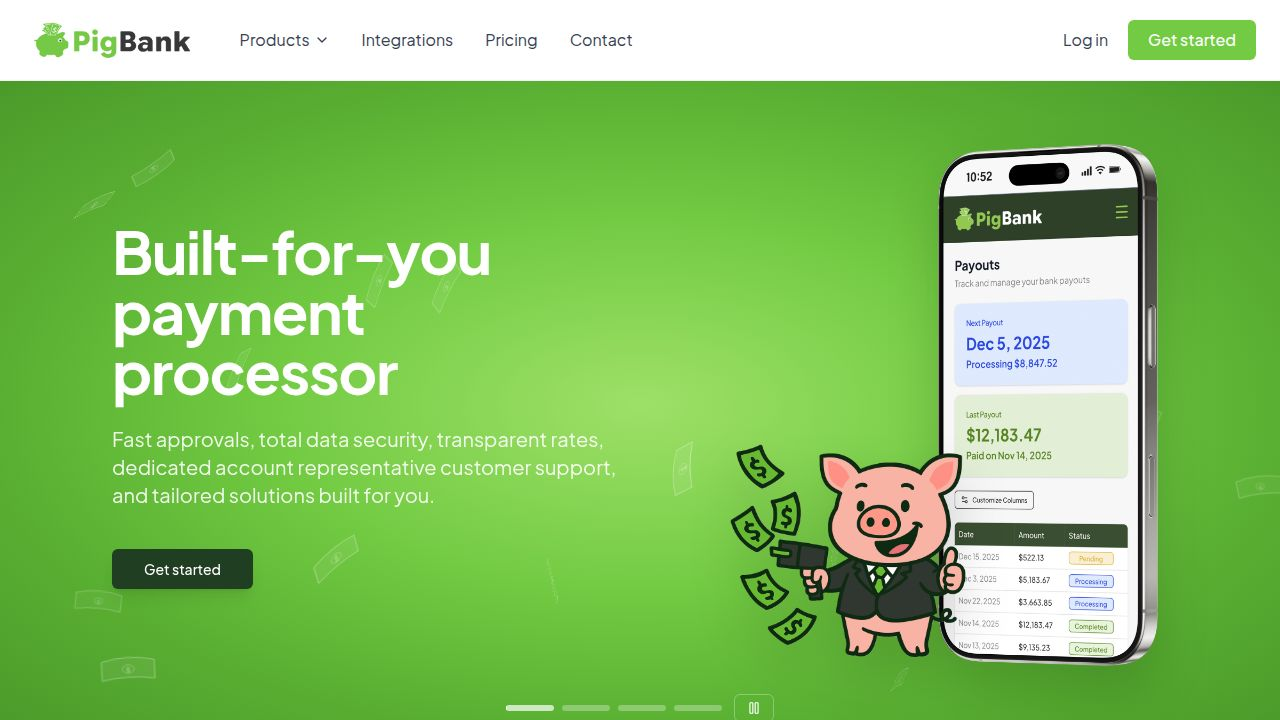
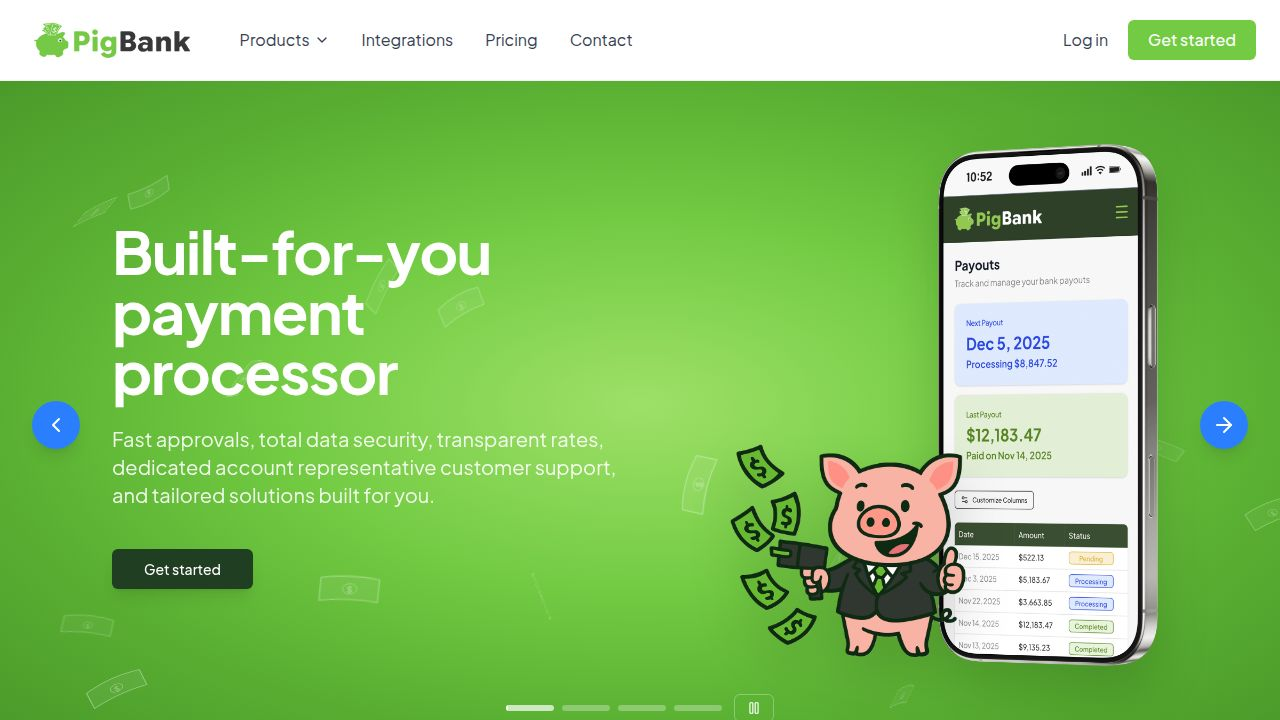
Add blue navigation arrows to the hero carousel for easier browsing
Implement previous and next navigation buttons for the hero carousel, styled in blue, to allow users to manually cycle through carousel items.

Replit-Commit-Author: Agent
Replit-Commit-Session-Id: 7ab86da8-cc16-44d3-ad7e-e79cdf0adba5
Replit-Commit-Checkpoint-Type: intermediate_checkpoint
Replit-Commit-Event-Id: 7b18399b-0641-4ef3-912c-4bc61363a076
Replit-Commit-Screenshot-Url: https://storage.googleapis.com/screenshot-production-us-central1/ee567252-c1f1-45c7-bba9-ef8d3212ce6e/7ab86da8-cc16-44d3-ad7e-e79cdf0adba5/mDqRSTS
Replit-Helium-Checkpoint-Created: true

diff --git a/client/src/pages/Landing.tsx b/client/src/pages/Landing.tsx
@@ -1511,6 +1511,28 @@ export default function Landing() {
             </CarouselContent>
           </Carousel>
           
+          {/* Navigation arrows */}
+          <button
+            onClick={() => {
+              heroApi?.scrollPrev();
+              setHeroProgress(0);
+            }}
+            className="absolute left-4 md:left-8 top-1/2 -translate-y-1/2 z-10 w-10 h-10 md:w-12 md:h-12 rounded-full bg-blue-500 hover:bg-blue-600 flex items-center justify-center shadow-lg transition-all"
+            data-testid="button-hero-prev"
+          >
+            <ChevronLeft className="h-5 w-5 md:h-6 md:w-6 text-white" />
+          </button>
+          <button
+            onClick={() => {
+              heroApi?.scrollNext();
+              setHeroProgress(0);
+            }}
+            className="absolute right-4 md:right-8 top-1/2 -translate-y-1/2 z-10 w-10 h-10 md:w-12 md:h-12 rounded-full bg-blue-500 hover:bg-blue-600 flex items-center justify-center shadow-lg transition-all"
+            data-testid="button-hero-next"
+          >
+            <ArrowRight className="h-5 w-5 md:h-6 md:w-6 text-white" />
+          </button>
+          
           {/* Carousel progress indicators with pause button */}
           <div 
             className="absolute bottom-12 left-1/2 -translate-x-1/2 flex items-center gap-3 z-10"
